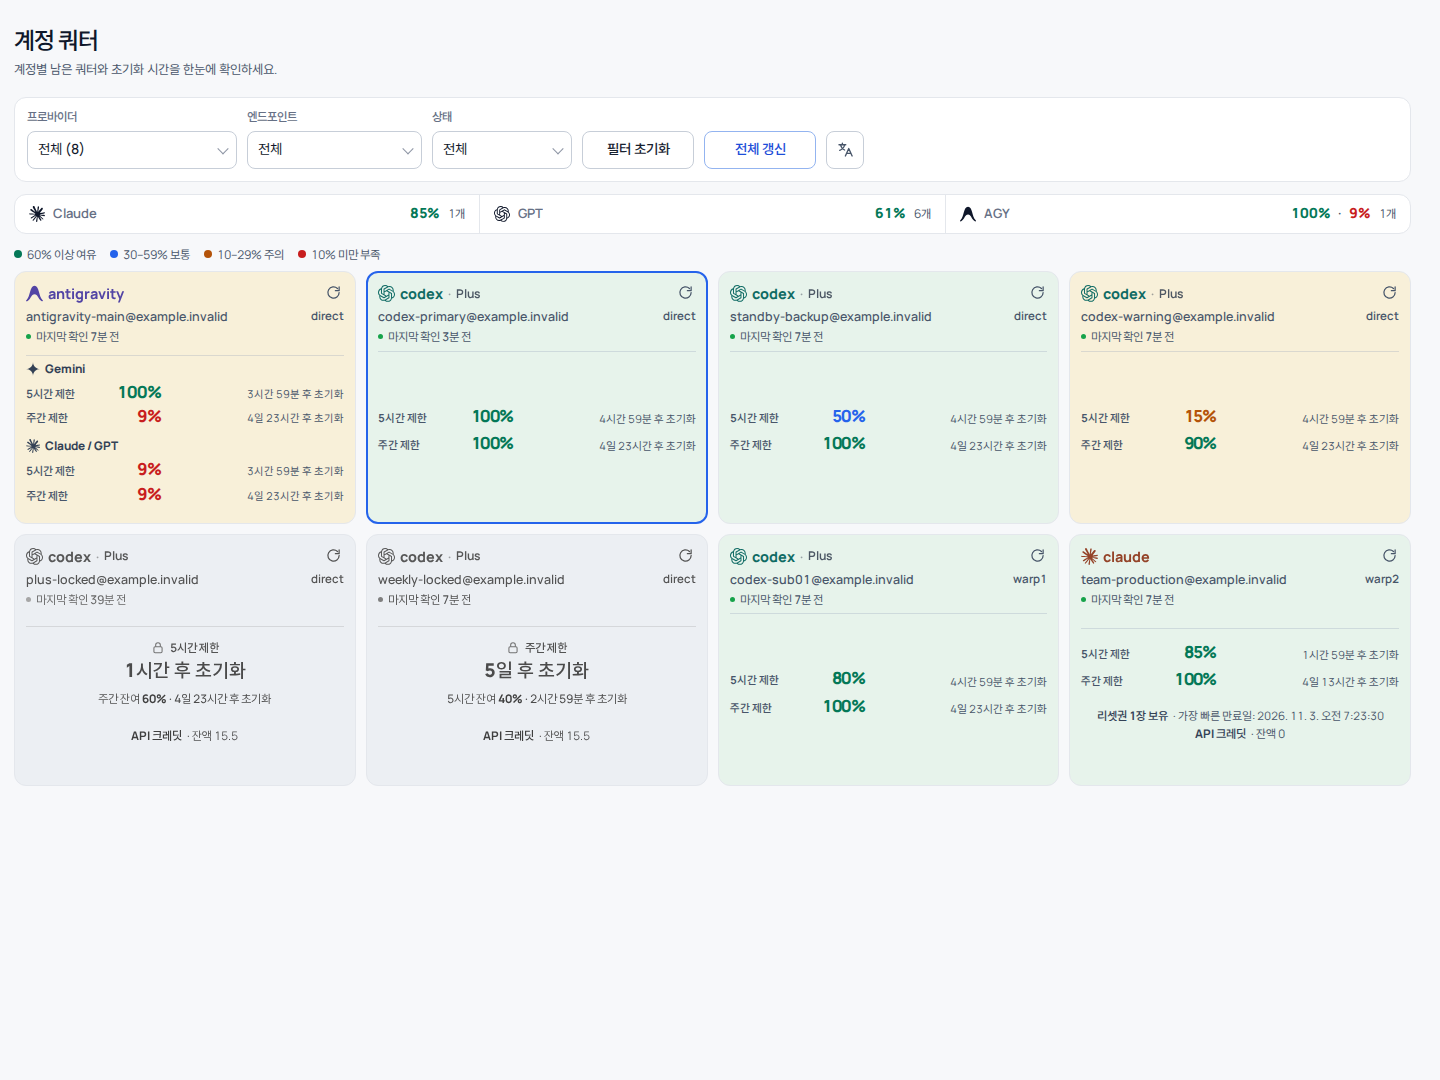
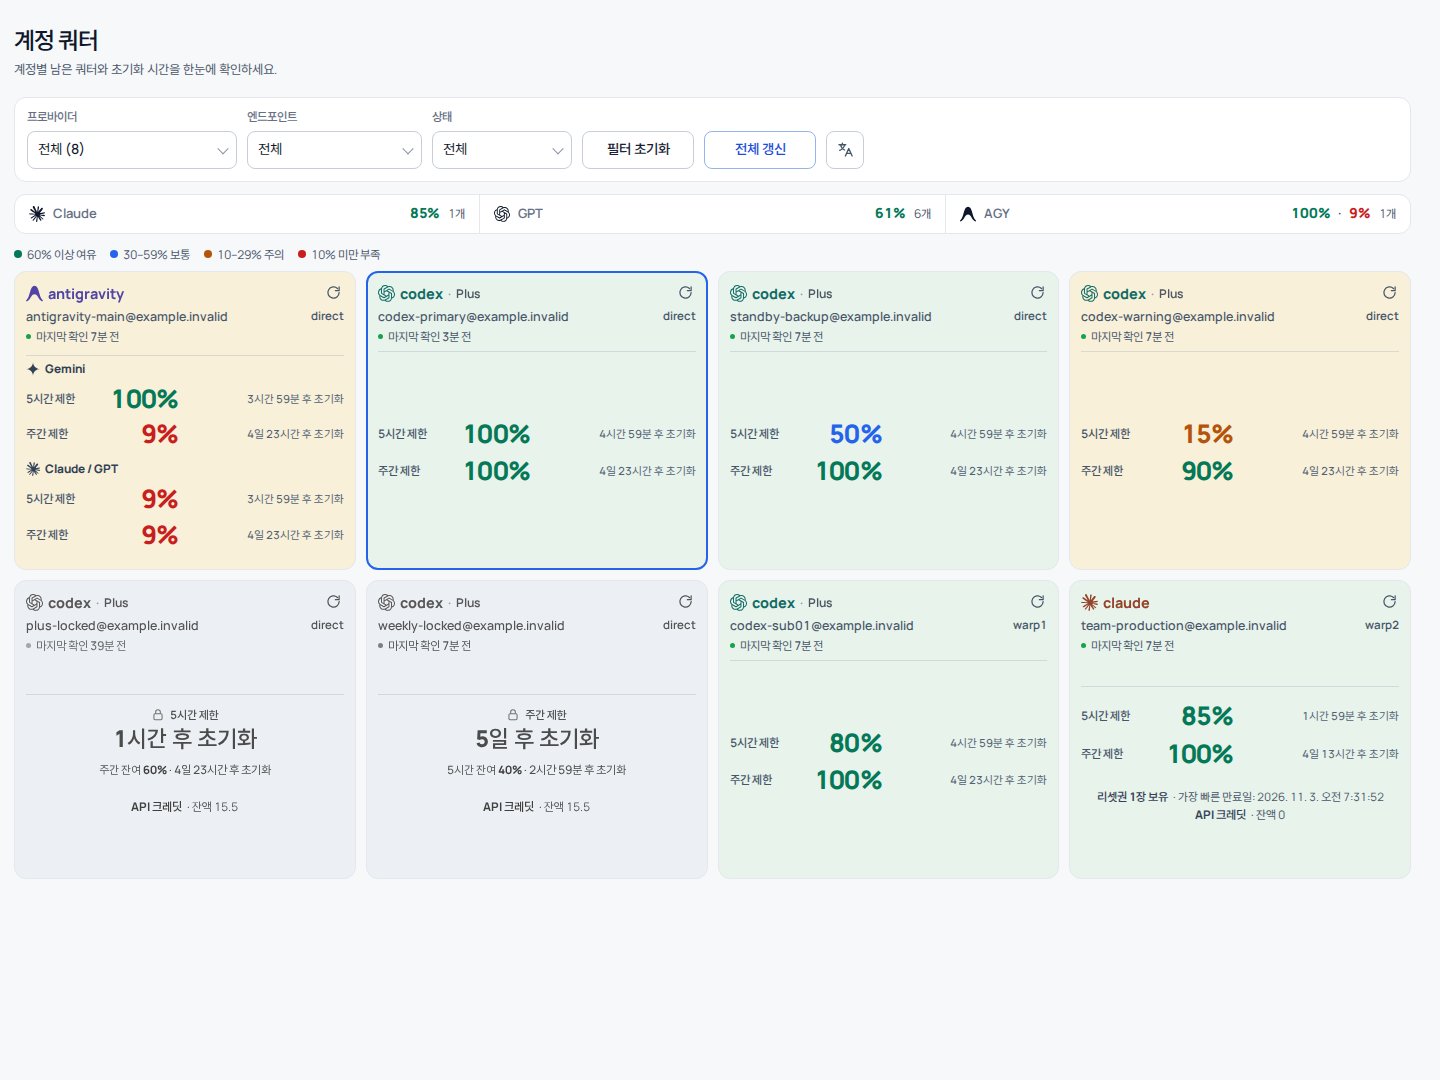
feat(dashboard): remaining quota is the hero number
- remaining % is now large (1.6rem, bold) in a wider fixed column so it reads first
- limit label and reset time are smaller and muted, reset time reads as secondary info
- locked hero time and hint scaled to match; antigravity locked/unlocked sections spaced evenly
- reset-time text darkened to keep WCAG AA contrast at the smaller size
- README screenshots refreshed

diff --git a/internal/dashboard/style.css b/internal/dashboard/style.css
@@ -581,3 +581,20 @@
   /* Antigravity: same rule as GPT/Claude. The body (Gemini + Claude/GPT sections) is one block centred in
      the free space under the divider; the tallest antigravity card defines the row height. */
   .account-card[data-provider="antigravity"] .card-quota { flex: 1 1 auto; justify-content: center; padding: 4px 0 8px; margin: 0; }
+
+  /* ===================== Remaining quota is the hero =====================
+     Each limit row reads: small label (left) | BIG remaining % | small, muted reset time (right, secondary).
+     Same three-column track on every provider, so all % values still share one column. */
+  :root { --pct-label-w: 4.4em; --pct-col-w: 76px; }
+  .quota-value-number, .ag-limit-value { width: var(--pct-col-w); font-size: 1.6rem; line-height: 1.3; font-weight: 800; letter-spacing: -0.03em; text-align: right; }
+  .quota-value-label, .ag-limit-label { font-size: 0.74rem; font-weight: 600; color: #475569; align-self: center; }
+  .quota-value-reset, .ag-limit-reset { font-size: 0.7rem; font-weight: 500; color: #526174; align-self: center; }
+  .quota-value-row, .ag-limit-item { align-items: center; }
+  .quota-values { row-gap: 4px; }
+  .ag-family-limits { row-gap: 2px; }
+  .ag-family-head { margin-bottom: 2px; }
+  /* locked hero time and its hint keep the same visual weight as a big % */
+  .quota-lock-time, .ag-family-lock-time { font-size: 1.45rem; line-height: 1.2; }
+  .quota-lock-title, .ag-family-lock-title, .quota-lock-weekly-summary, .ag-family-lock-context, .quota-lock-weekly strong, .ag-family-lock-context strong { font-size: 0.72rem; }
+  .ag-family-stack:has(.is-locked) { gap: 12px; }
+  .ag-family-section.is-locked + .ag-family-section:not(.is-locked) { padding-top: 2px; }
